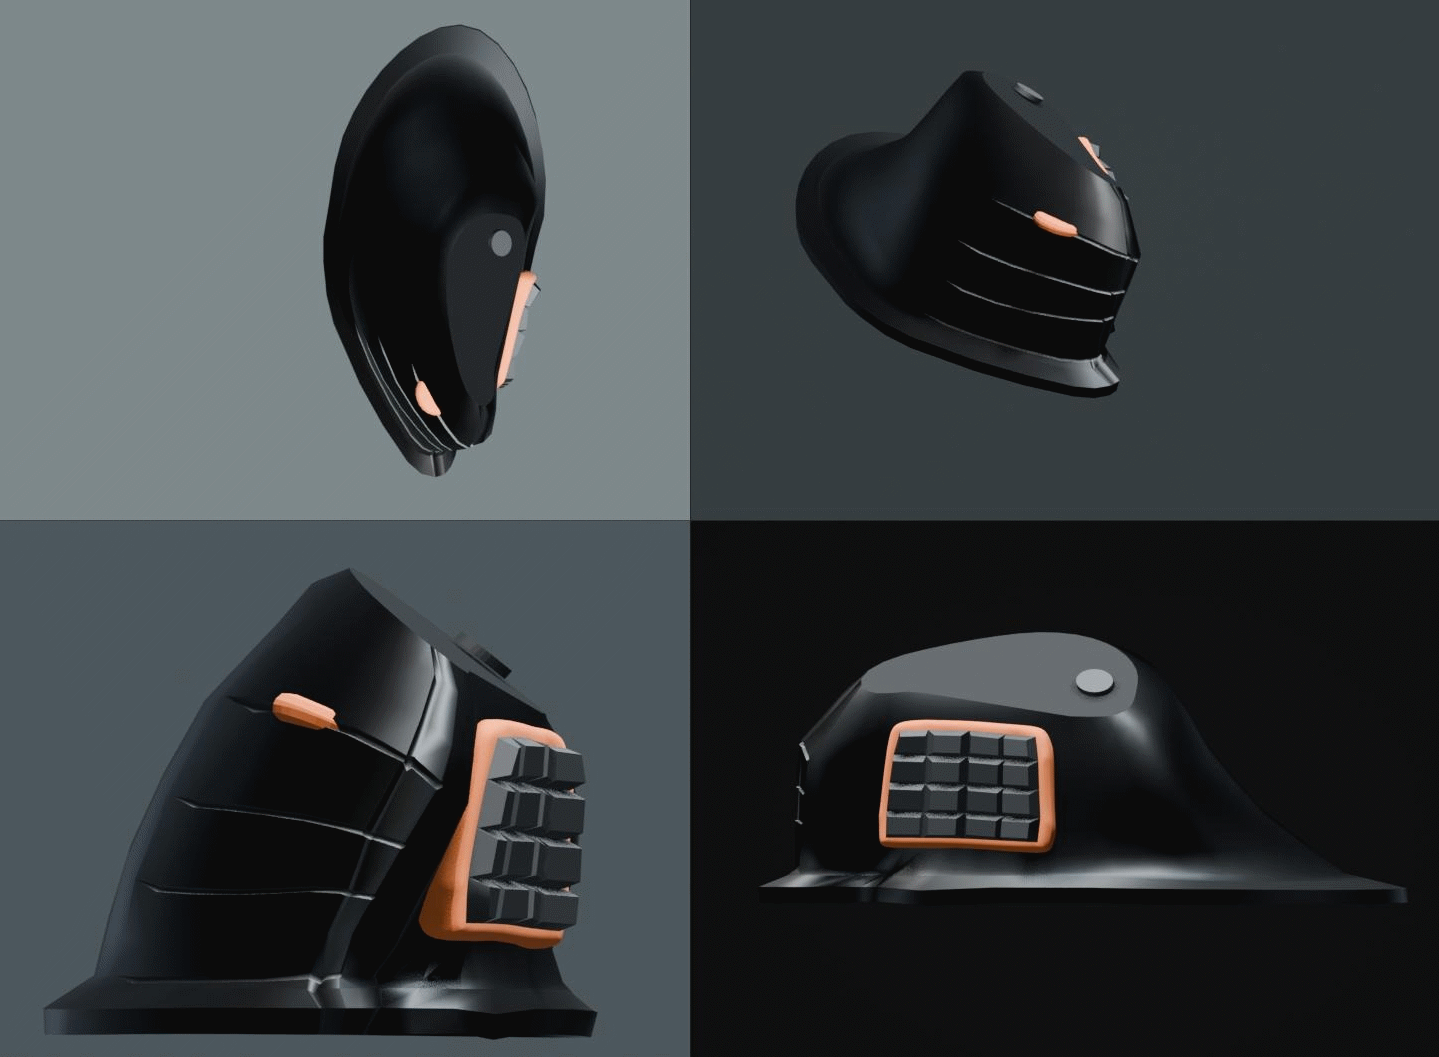
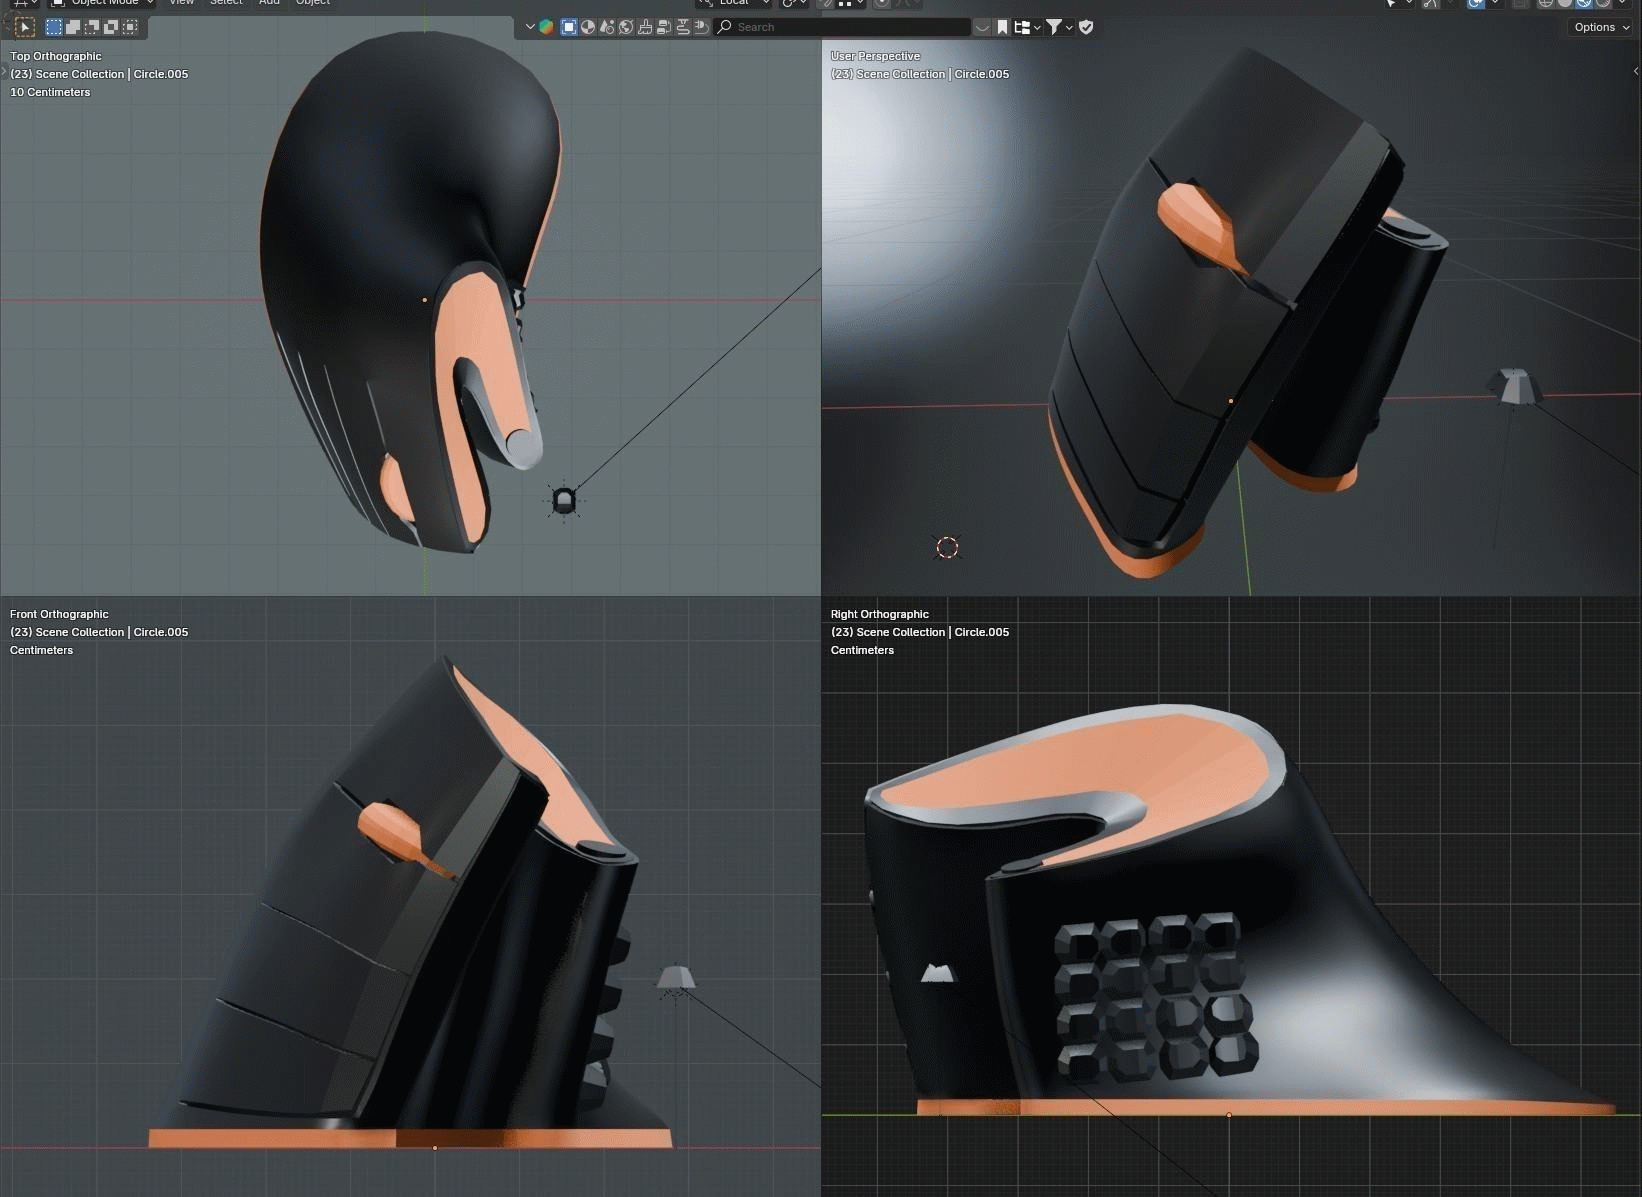
better

diff --git a/3d-project-pages/mouse-idea/project.html b/3d-project-pages/mouse-idea/project.html
@@ -30,7 +30,7 @@
     <main>
         <h1>Mouse Idea</h1>
         <h2>2026 </h2>
-        <p>mouse idea I modeled in 10 minutes. It would be PERFECT</p>
+        <p>mouse idea I modeled and might make. It would be PERFECT</p>
         
             
         
